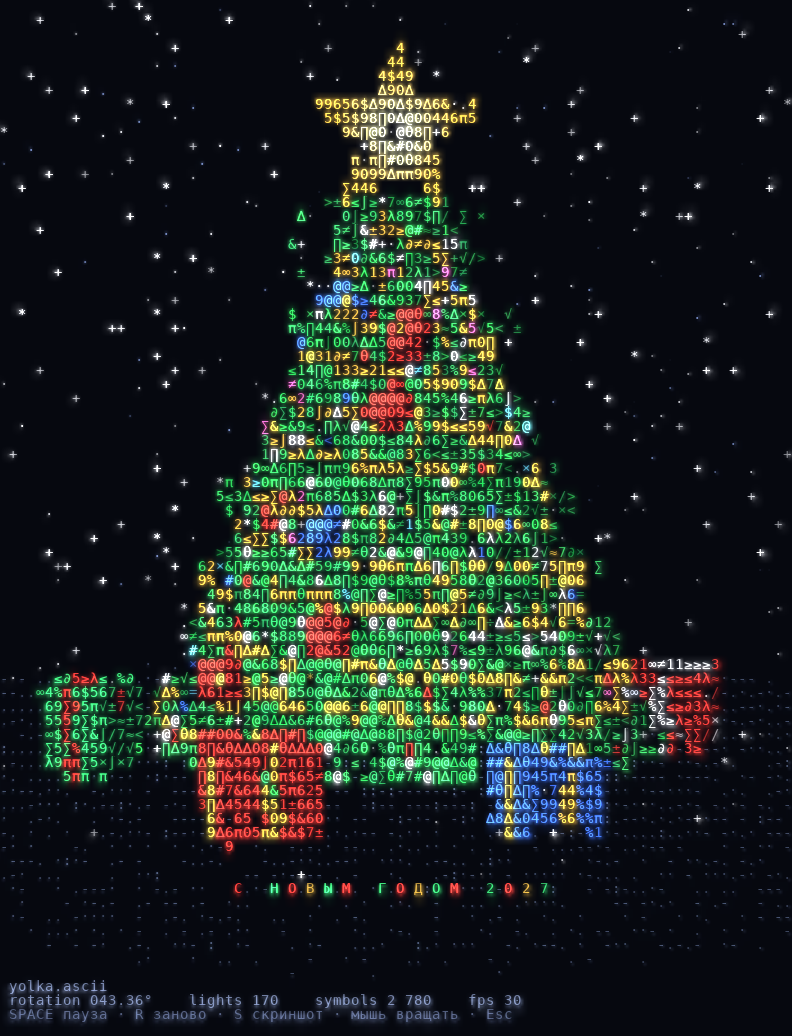
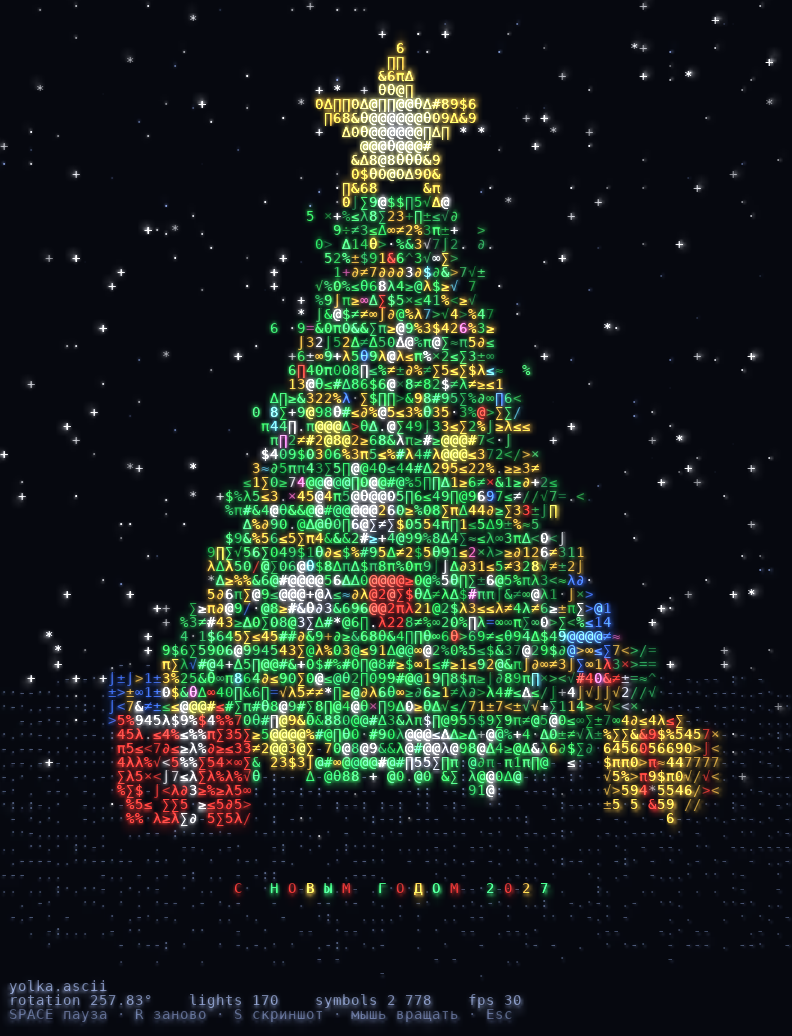
Добавил настройки некоторых параметров, чтобы каждый мог настроить праздник под себя)

diff --git a/README.md b/README.md
@@ -1,45 +1,43 @@
-# ASCII yolka
+# ASCII-ёлка
 
-A rotating New Year tree made of digits and math symbols. Press a key and it assembles itself out of a swirl of characters, then the garland lights up, presents drop from the sky and the snow keeps falling.
+Новогодняя ёлка из цифр и математических знаков. Нажимаешь пробел — она собирается из вихря символов, загорается гирлянда, с неба падают подарки, идёт снег.
 
-![ASCII yolka](docs/yolka.gif)
+![ASCII-ёлка](docs/yolka.gif)
 
-**Live in the browser:** https://mmm0bucks.github.io/ascii-yolka/ (first load takes a while: it downloads Python and numpy compiled to WebAssembly).
+**Посмотреть в браузере:** https://mmm0bucks.github.io/ascii-yolka/
+Первый раз грузится долго — подожди немного.
 
-## Run locally
+## Как запустить у себя
 
-Python 3.10+.
+Нужен Python 3.10 или новее.
 
 ```
 python -m venv .venv
-.venv\Scripts\activate          # Linux/macOS: source .venv/bin/activate
+.venv\Scripts\activate
 pip install -r requirements.txt
 python yolka/main.py
 ```
 
-With [uv](https://docs.astral.sh/uv/) it is one line, no setup: `uv run yolka/main.py`.
+На Linux и macOS вторая строка другая: `source .venv/bin/activate`.
 
-| Key | Action |
+## Управление
+
+| Клавиша | Что делает |
 |---|---|
-| `Space` / click | assemble the tree, then pause |
-| `R` | assemble again |
-| `S` | save a screenshot |
-| drag the mouse | rotate |
-| `Esc` | quit |
+| Пробел или клик | собрать ёлку, потом пауза |
+| R | собрать заново |
+| S | сохранить скриншот |
+| Тянуть мышью | вращать |
+| Esc | выход |
 
-The greeting is the `GREETING` constant at the top of `yolka/main.py`.
+## Как настроить
 
-## How it works
+В самом начале файла `yolka/main.py` есть блок переменных: текст поздравления, скорость вращения и снега, яркость гирлянды, подарков и звезды. Меняешь число — меняется картинка.
 
-1. The scene is a 3D point cloud of about 37,000 points: ground, trunk, tiers of drooping branches, two garland spirals, 170 bulbs, baubles, a star, five presents and snow.
-2. Every frame the points are rotated, projected with perspective onto an 88×74 character grid, and a z-buffer keeps the nearest point in each cell.
-3. The character is picked by brightness (Lambert shading). The ramp is sorted by real glyph coverage measured from the font, so dark areas get `. : -` and bright ones get `8 # @`, with `∑ ∫ √ ∞ π` in between.
-4. The whole frame is composed from a glyph atlas in one numpy expression; the glow is the frame downscaled, upscaled and added to itself.
+## Как это работает
 
-The same file runs in the browser through [pygbag](https://pygame-web.github.io/) (pygame compiled to WebAssembly). The GitHub Actions workflow in `.github/workflows/pages.yml` builds it and publishes to GitHub Pages on every push to `main`.
+Ёлка — это примерно 37 тысяч точек в 3D. Каждый кадр они поворачиваются и ложатся на сетку 88×74 символа. В каждой клетке остаётся ближайшая точка, а символ подбирается по её яркости: тёмное — точки и дефисы, светлое — `8`, `#`, `@`.
 
-## Credits
+Сделано на Python: pygame-ce и numpy. В браузере работает через pygbag.
 
-Inspired by an ASCII Christmas tree reel signed `wcminh.ascii`; the code here is written from scratch. The bundled font is DejaVu Sans Mono, see `docs/DejaVu-LICENSE.txt`.
-
-MIT License.
+Идея подсмотрена в ролике с подписью `wcminh.ascii`, код написан с нуля. Шрифт — DejaVu Sans Mono (лицензия в `docs/DejaVu-LICENSE.txt`).
